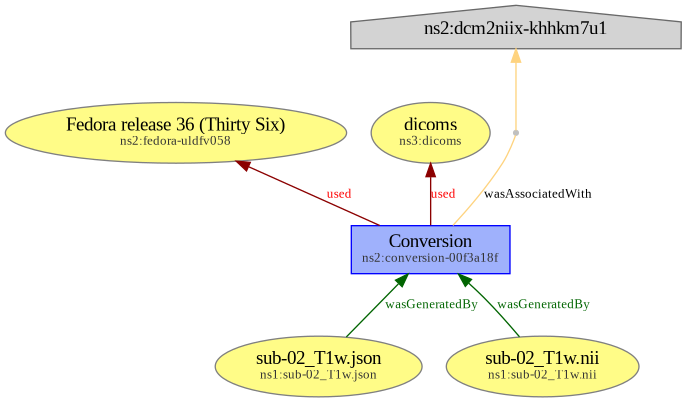
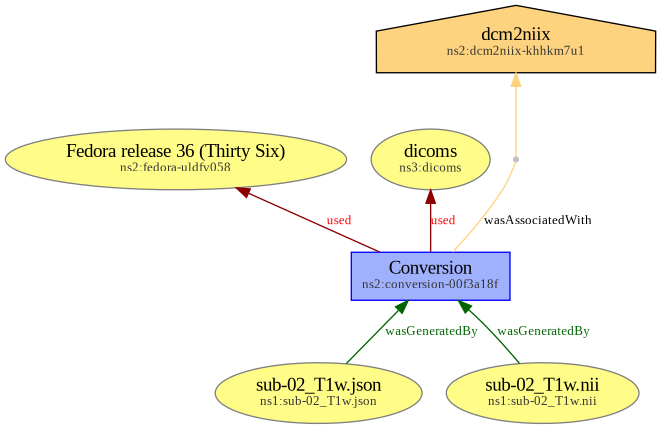
Adding provenance RDF graphs

Changed region(s): [[0.0, 0.2388, 0.9682, 1.0], [0.4841, 0.0, 0.9985, 0.209]]

diff --git a/provenance_dcm2niix/README.md b/provenance_dcm2niix/README.md
@@ -11,18 +11,35 @@ That the `sourcedata/` directory contains the source dataset (DICOM files) known
 
 ## Directory tree
 
-After conversion, and adding provenance traces, the directory tree is as follows. Files marked with a ✍ were generated manually.
-`sub-02/anat/sub-02_T1w.json` was generated by `dcm2niix`, then the `GeneratedBy` and `SidecarGeneratedBy` provenance-related fields were added manually.
+After conversion, and adding provenance traces, the directory tree is as follows.
+
+Legend:
+* files with a ⭐ were generated by `dcm2niix`;
+* files marked with a ✍ were generated manually;
+* files marked with a 🤖 were comptued from the manually generated provenance metadata;
+* the ⭐✍ marked `sub-02/anat/sub-02_T1w.json` file was generated by `dcm2niix`, then the `GeneratedBy` and `SidecarGeneratedBy` provenance-related fields were added manually.
+
+> [!NOTE]
+> Note that the `docs/` directory contains explanatory data (see [Provenance as a RDF graph](#provenance-as-a-rdf-graph)) that is not required to encode provenance.
 
 ```
+✍ docs/
+├── 🤖 prov-dcm2niix.jsonld
+└── 🤖 prov-dcm2niix.png
 ✍ prov/
 ├── ✍ prov-dcm2niix_act.json
 ├── ✍ prov-dcm2niix_ent.json
 ├── ✍ prov-dcm2niix_env.json
 └── ✍ prov-dcm2niix_soft.json
 sourcedata/
-sub-02/
-└── anat
-    ├── ✍ sub-02_T1w.json
-    └── sub-02_T1w.nii
+⭐ sub-02/
+└── ⭐ anat
+    ├── ⭐✍ sub-02_T1w.json
+    └── ⭐ sub-02_T1w.nii
 ```
+
+## Provenance as a RDF graph
+
+Provenance metadata can be aggregated as a JSON-LD RDF graph, which is available in [`docs/prov-dcm2niix.jsonld`](docs/prov-dcm2niix.jsonld). This is a rendered version of the graph, also available in [`docs/prov-dcm2niix.png`](docs/prov-dcm2niix.png).
+
+![Rendered version of the RDF graph](docs/prov-dcm2niix.png)
